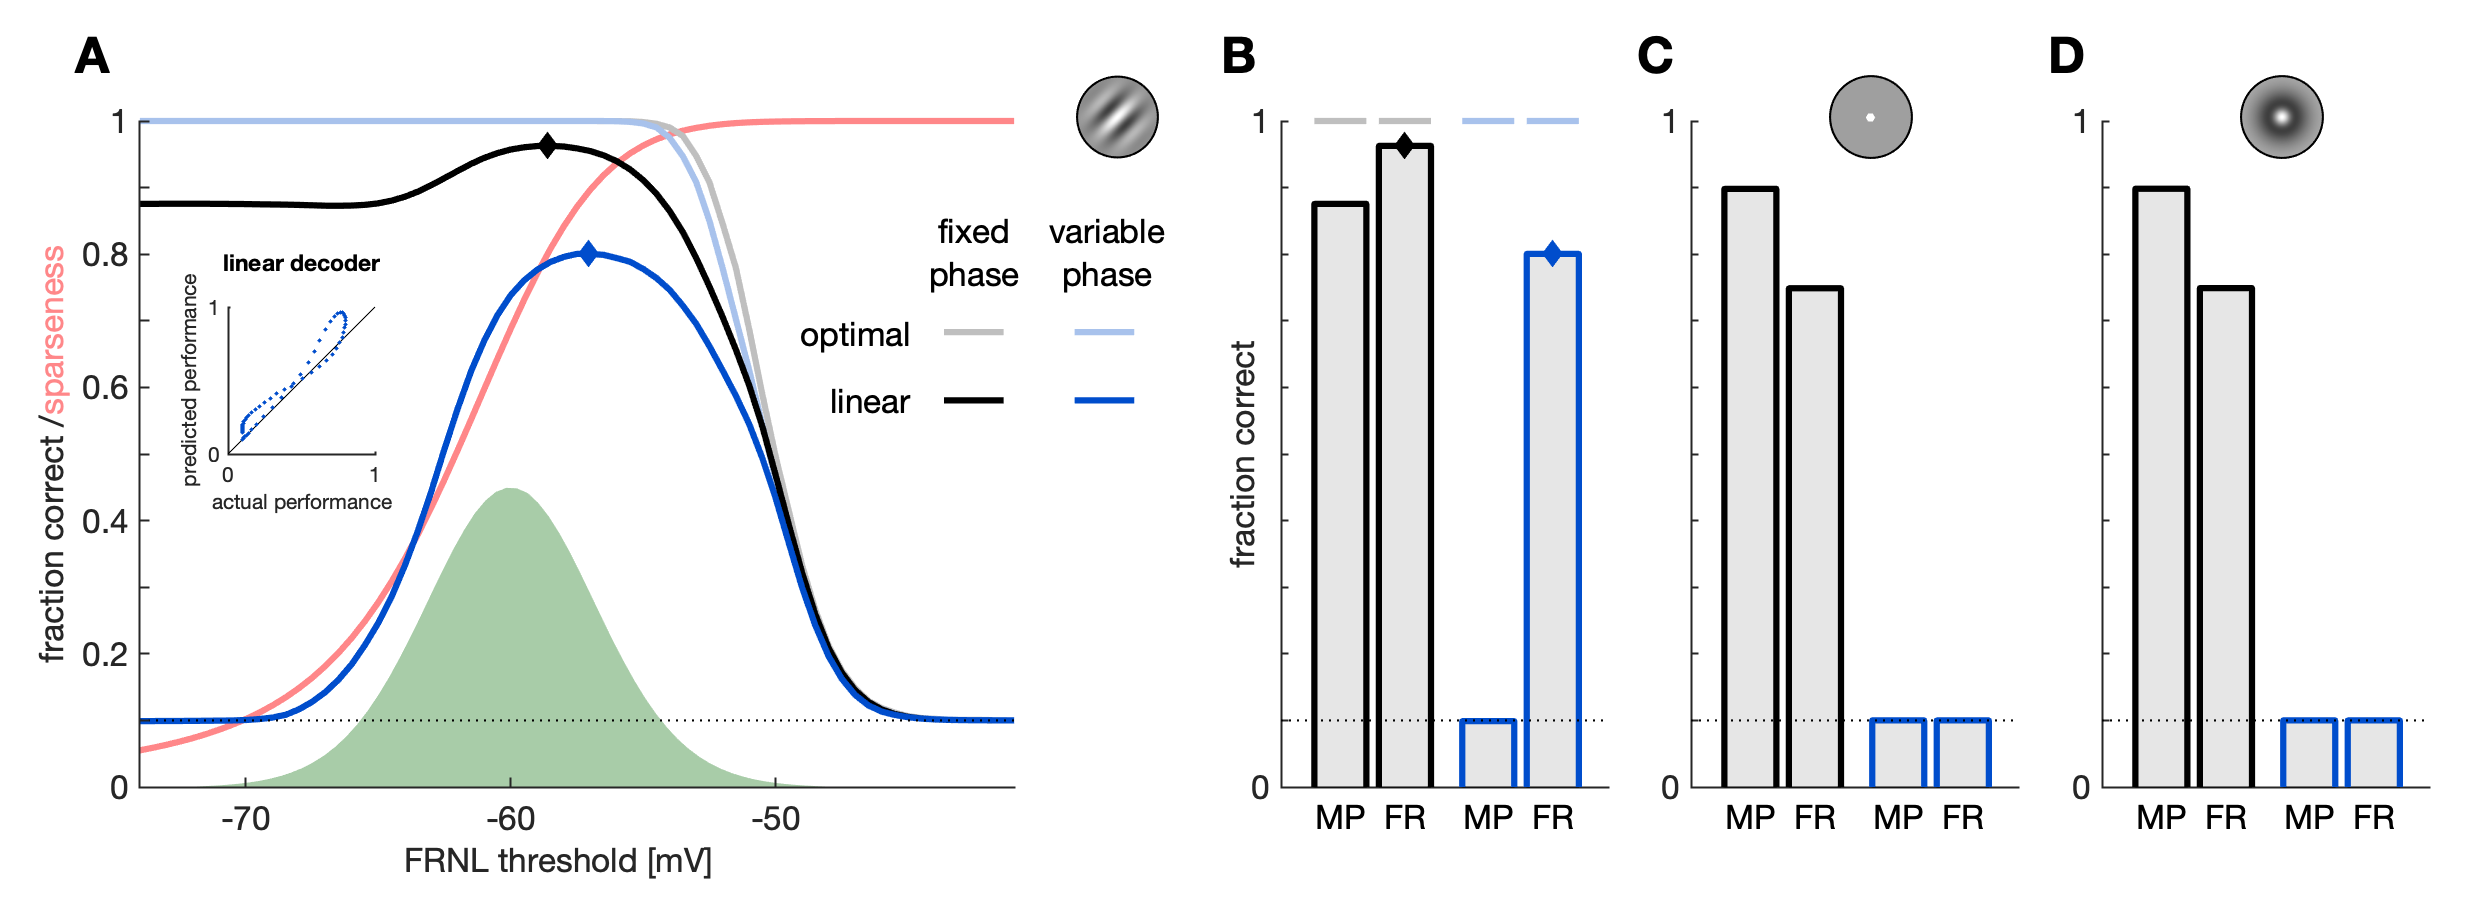
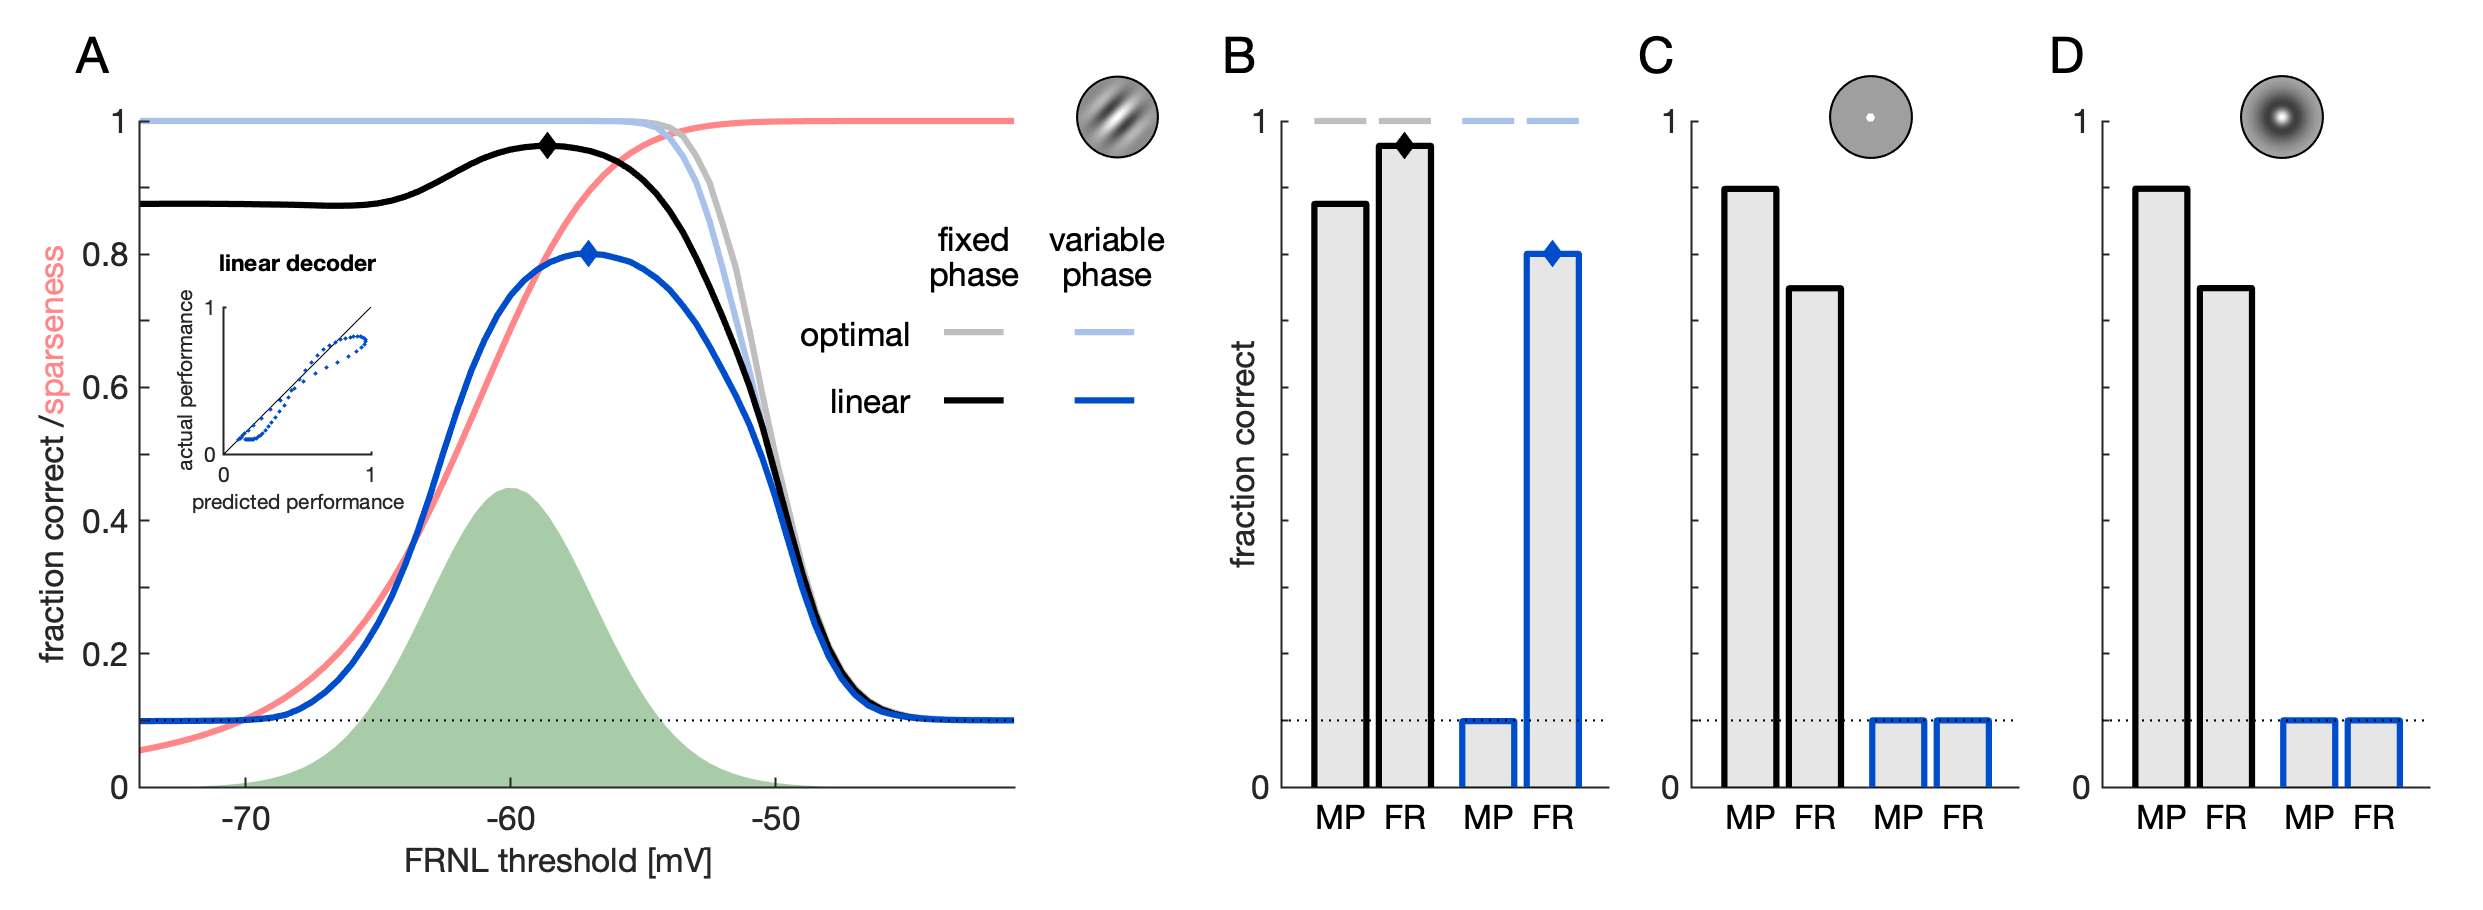
Add files via upload

Changed region(s): [[0.062, 0.2769, 0.1551, 0.5846], [0.3721, 0.2462, 0.4652, 0.2769], [0.124, 0.3385, 0.1551, 0.4]]

diff --git a/Fig3/Fig3.m b/Fig3/Fig3.m
@@ -138,7 +138,7 @@ leg_gapx = 3;
 leg_y0 = 0.58;
 leg_gapy = 0.1;
 leg_titlegap = 0.09;
-leg_linespace = 0.065;
+leg_linespace = 0.053;
 leg_neg = 1.4;
 
 text(leg_x0+0.5*leg_width,leg_y0+leg_gapy+leg_titlegap+leg_linespace,'fixed','fontsize',leg_size,'HorizontalAlignment','center','fontname','Helvetica')
@@ -175,7 +175,7 @@ Bayesbound_2d_MP = OPTPERF_2D(1);
 Bayesbound_2d_FR = OPTPERF_2D(maxi);
 scatter(maxx,maxy,100,phase_color,'d','filled')
 
-text(-75.8,1+ABC_yshift,'A','fontsize',ABC_size,'HorizontalAlignment','center','fontweight','bold')
+text(-75.8,1+ABC_yshift,'A','fontsize',ABC_size,'HorizontalAlignment','center')
 
 gwidth = 0.25*width_B;
 axes_position = [mleft+width_A+gapx-2.5*gwidth mbottom+height-.45*gwidth gwidth gwidth];
@@ -210,18 +210,18 @@ plot(xx,yy,'color','k','linewidth',1)
 
 % inset
 
-axes_position = [mleft+0.085*width_A mbottom+0.50*height 0.20*width_A 0.22*height];
+axes_position = [mleft+0.081*width_A mbottom+0.50*height 0.20*width_A 0.22*height];
 axes('unit','pixel','position',axes_position)
 set(gca,'FontName','Helvetica','fontsize',10,'linewidth',1)
 
 hold on
 
 plot(0:0.01:1,0:0.01:1,'k')
-scatter(LINPERF_2D,1/K+SPARSENESS.*(OPTPERF_2D-1/K),5,phase_color,'filled')
+scatter(1/K+SPARSENESS.*(OPTPERF_2D-1/K),LINPERF_2D,5,phase_color,'filled')
 set(gca,'xlim',[0 1],'ylim',[0 1],'xtick',[0 1],'ytick',[0 1],'fontname','Helvetica','fontsize',10)
 axis square
-xlabel({'actual performance'},'fontname','Helvetica','fontsize',10)
-ylabel({'predicted performance'},'fontname','Helvetica','fontsize',10)
+xlabel({'predicted performance'},'fontname','Helvetica','fontsize',10)
+ylabel({'actual performance'},'fontname','Helvetica','fontsize',10)
 title({'linear decoder',''})
 
 % panel B
@@ -272,7 +272,7 @@ text(bargap0+bargap1+1.5*barwidth+bargap2+bargap1+2*barwidth,MPFR_yshift,'FR','F
  
 line([0 width_B],[1/K 1/K],'linestyle',':','linewidth',ax_width,'color','k')
  
-text(-20,1+ABC_yshift,'B','fontsize',ABC_size,'HorizontalAlignment','center','fontweight','bold')
+text(-20,1+ABC_yshift,'B','fontsize',ABC_size,'HorizontalAlignment','center')
 
 % panel C
 
@@ -313,7 +313,7 @@ text(bargap0+bargap1+1.5*barwidth+bargap2+bargap1+2*barwidth,MPFR_yshift,'FR','F
  
 line([0 width_B],[1/K 1/K],'linestyle',':','linewidth',ax_width,'color','k')
  
-text(-17,1+ABC_yshift,'C','fontsize',ABC_size,'HorizontalAlignment','center','fontweight','bold')
+text(-17,1+ABC_yshift,'C','fontsize',ABC_size,'HorizontalAlignment','center')
 
 gwidth = 0.25*width_B;
 axes_position = [mleft+width_A+gapx+width_B+gapx2+1.7*gwidth mbottom+height-.45*gwidth gwidth gwidth];
@@ -386,7 +386,7 @@ text(bargap0+bargap1+1.5*barwidth+bargap2+bargap1+2*barwidth,MPFR_yshift,'FR','F
  
 line([0 width_B],[1/K 1/K],'linestyle',':','linewidth',ax_width,'color','k')
  
-text(-17,1+ABC_yshift,'D','fontsize',ABC_size,'HorizontalAlignment','center','fontweight','bold')
+text(-17,1+ABC_yshift,'D','fontsize',ABC_size,'HorizontalAlignment','center')
 
 gwidth = 0.25*width_B;
 axes_position = [mleft+width_A+gapx+2*width_B+2*gapx2+1.7*gwidth mbottom+height-.45*gwidth gwidth gwidth];
@@ -421,5 +421,5 @@ hold on
 plot(xx,yy,'color','k','linewidth',1)
 
 set(gcf,'PaperPositionMode','auto','papersize',[42 15]);
-print(gcf,'Fig3','-dpdf','-r0')
-saveas(gcf,sprintf('%s.png',mfilename));
+print(gcf,mfilename,'-dpdf','-r0')
+saveas(gcf,[mfilename,'.png']);
